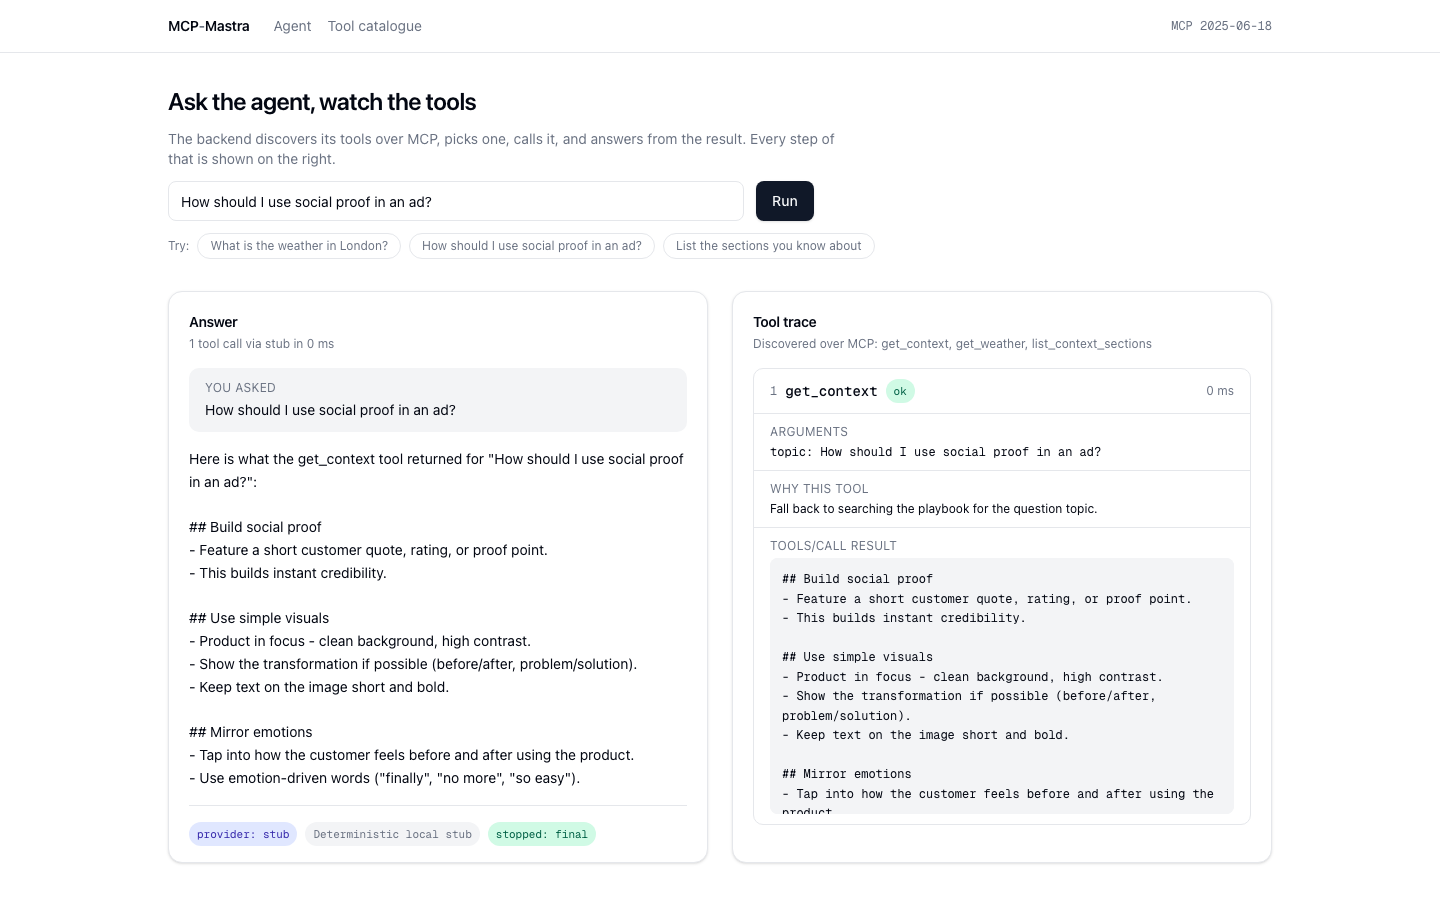
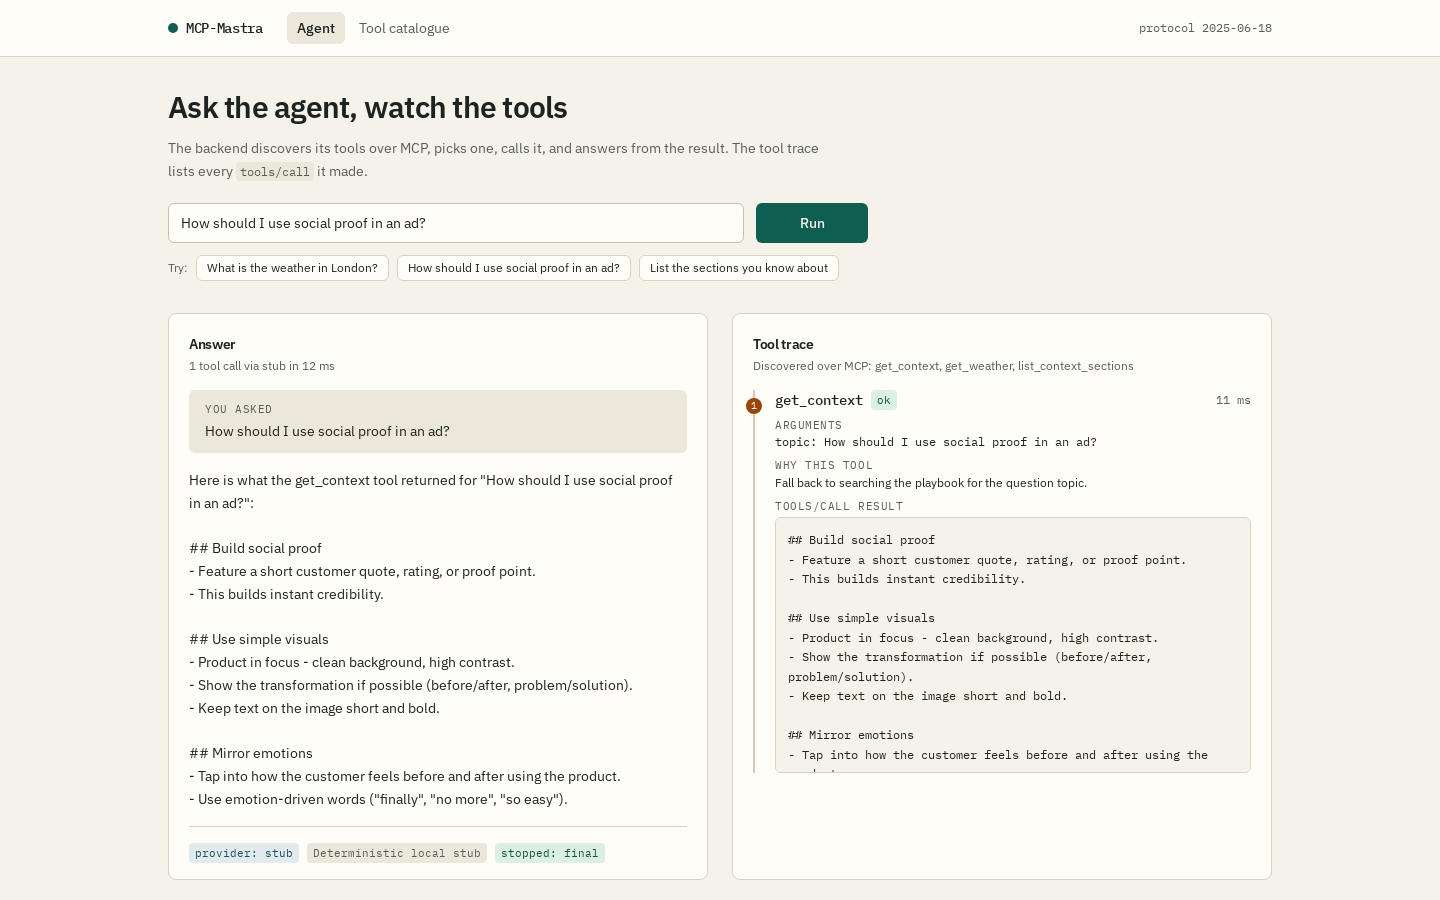
Rewrite the README around the Compose quick start and captured API calls
Adds an architecture diagram, request/response examples taken from the running stack, the stdio exchange, a configuration table and design notes. Screenshots are recaptured in the new palette, with phone views.

diff --git a/README.md b/README.md
@@ -1,27 +1,37 @@
 # MCP-Mastra
 
-A small Model Context Protocol server, an agent loop that calls it, and a Next.js console that shows the answer next to the list of tool calls the agent made.
+A small Model Context Protocol server, an agent loop that reaches its tools through an MCP client, and a Next.js console that shows the answer next to every tool call the agent made: which tool, with which arguments, why, and what came back.
 
-![Agent console with the tool trace](docs/screenshots/agent-console.png)
+![Agent console: the answer on the left, the numbered tool trace on the right](docs/screenshots/agent-console.png)
 
-By default the agent uses a local stub provider (a keyword rule table), so it runs without an API key or network access. Setting `MODEL_PROVIDER=openai` switches to a Mastra agent on an OpenAI model.
+The point is to make tool selection visible. When an agent picks the wrong tool or sends bad arguments, the trace shows it instead of leaving you to guess from the final answer.
+
+By default the agent runs on a deterministic local stub (a keyword rule table), so the whole stack works with no API key and no network. Setting `MODEL_PROVIDER=openai` swaps in a Mastra agent on an OpenAI model behind the same interface.
 
 ## What's in it
 
-- MCP server with `initialize`, `ping`, `tools/list` and `tools/call`, served over HTTP (`POST /mcp`) and stdio
-- Three tools: `get_context`, `list_context_sections` and `get_weather` (synthetic, deterministic readings, not a real forecast)
-- Agent loop that talks to the server through an MCP client, validates tool arguments with Zod and stops after `MAX_TOOL_STEPS`
-- Web console with the agent chat and a tool catalogue page for sending raw `tools/call` requests
+- An MCP server with `initialize`, `ping`, `tools/list` and `tools/call`, served over HTTP (`POST /mcp`) and over stdio.
+- Three tools: `get_context` and `list_context_sections` search a small ad-copy playbook; `get_weather` returns a synthetic reading derived from the city and date (deterministic, not a real forecast).
+- An agent loop that discovers tools over MCP, validates arguments with Zod, stops after `MAX_TOOL_STEPS`, and has deadlines on each tool call and on the whole run.
+- A web console with the agent chat and a tool catalogue page that sends raw `tools/call` requests to `/mcp`.
 
-Backend: Node, TypeScript, Express, Zod, `@mastra/core`. Frontend: Next.js 15, React 19, Tailwind.
+Backend: Node 22, TypeScript, Express 5, Zod, `@mastra/core`. Frontend: Next.js 15, React 19, Tailwind 4.
 
-## Running locally
+## Quick start
 
-Two terminals:
+With Docker:
+
+```bash
+docker compose up --build
+```
+
+Then open http://localhost:7272. The API is on http://localhost:7271. Every setting has a default; to change one, copy `.env.example` to `.env` next to `docker-compose.yml` and edit it.
+
+Without Docker (Node 22, see `.nvmrc`), in two terminals:
 
 ```bash
 cd Backend
-cp .env.example .env   # optional, all values have defaults
+cp .env.example .env   # optional
 npm install
 npm run dev            # API on http://localhost:7271
 ```
@@ -32,49 +42,171 @@ npm install
 npm run dev            # console on http://localhost:7272
 ```
 
-Quick checks:
+## How it fits together
 
-```bash
-curl -s http://localhost:7271/healthz
-curl -s -X POST http://localhost:7271/mcp \
-  -H 'Content-Type: application/json' \
-  -d '{"jsonrpc":"2.0","id":1,"method":"tools/list"}'
+```mermaid
+flowchart LR
+  UI["Next.js console<br/>:7272"] -- "POST /api/chat" --> API["Express API<br/>:7271"]
+  UI -- "POST /mcp (tools/call)" --> API
+  API --> Runner["AgentRunner<br/>step cap, run deadline"]
+  Runner -- "decide()" --> Provider{{"ModelProvider<br/>stub or Mastra/OpenAI"}}
+  Runner --> Client["McpClient"]
+  Client -- "in-memory transport" --> Server["McpServer"]
+  API -- "/mcp" --> Server
+  Stdio["stdio transport"] --> Server
+  Server --> Registry["ToolRegistry<br/>Zod validation, per-call deadline"]
+  Registry --> Tools["get_context<br/>list_context_sections<br/>get_weather"]
 ```
 
-To run the server as a stdio MCP subprocess instead: `cd Backend && npm run mcp:stdio`.
-
-### Using OpenAI
-
-In `Backend/.env`:
-
-```
-MODEL_PROVIDER=openai
-OPENAI_API_KEY=sk-...
-OPENAI_MODEL=gpt-4o-mini
-```
-
-If the key is missing the server logs a warning and falls back to the stub.
+The API holds one `McpServer` instance. The agent reaches it through the same `McpClient` an external consumer would use, over an in-memory transport, so the API has no back door into the tools. `/mcp` and the stdio entry point serve that same server to outside clients.
 
 ## API
 
 | Method | Path | Description |
 |---|---|---|
-| GET | `/healthz` | Provider, protocol version, tool names, config warnings |
+| GET | `/healthz` | Provider, protocol version, tool names, limits, config warnings |
 | GET | `/api/tools` | Tool catalogue fetched through the MCP client |
-| POST | `/api/chat` | `{ question }` in, answer plus `steps` out |
-| POST | `/mcp` | Raw JSON-RPC |
+| POST | `/api/chat` | `{ "question": "..." }` in, the answer and the step trace out |
+| POST | `/mcp` | Raw JSON-RPC 2.0 |
 
-## Tests
+These exchanges were captured from the Compose stack.
+
+Ask the agent:
 
 ```bash
-cd Backend && npm test
-cd Frontend && npm test
+curl -s -X POST http://localhost:7271/api/chat \
+  -H 'Content-Type: application/json' \
+  -d '{"question":"What is the weather in Lisbon?"}'
 ```
 
-Both packages also have `npm run lint` and `npm run typecheck`.
+```json
+{
+  "question": "What is the weather in Lisbon?",
+  "answer": "Here is what the get_weather tool returned for \"What is the weather in Lisbon?\":\n\nLisbon on 2026-11-08: heavy rain. Temperature -3 C, wind 25 kph, humidity 87%. (Synthetic reading - deterministic from city and date, not a live forecast.)",
+  "provider": "stub",
+  "providerLabel": "Deterministic local stub",
+  "toolsDiscovered": ["get_context", "get_weather", "list_context_sections"],
+  "steps": [
+    {
+      "index": 0,
+      "tool": "get_weather",
+      "arguments": { "city": "Lisbon" },
+      "rationale": "The question asks about weather and names a place.",
+      "ok": true,
+      "output": "Lisbon on 2026-11-08: heavy rain. Temperature -3 C, wind 25 kph, humidity 87%. (Synthetic reading - deterministic from city and date, not a live forecast.)",
+      "structured": {
+        "city": "Lisbon", "date": "2026-11-08", "condition": "heavy rain",
+        "temperatureC": -3, "windKph": 25, "humidityPct": 87, "synthetic": true
+      },
+      "durationMs": 1
+    }
+  ],
+  "stoppedBy": "final",
+  "durationMs": 3
+}
+```
 
-## Notes
+`stoppedBy` is `final` when the provider answered, `step_limit` when it hit `MAX_TOOL_STEPS`, `deadline` when the run went over `RUN_TIMEOUT_MS`, and `cancelled` when the client went away first.
 
-- The stub provider routes weather questions to `get_weather` and most other things to `get_context`. It does not chain tools.
-- The OpenAI path type-checks but hasn't been run against a real key.
-- The MCP implementation covers tools only (no resources, prompts or sampling), and `/mcp` has no authentication.
+Call a tool directly over JSON-RPC:
+
+```bash
+curl -s -X POST http://localhost:7271/mcp \
+  -H 'Content-Type: application/json' \
+  -d '{"jsonrpc":"2.0","id":2,"method":"tools/call","params":{"name":"get_weather","arguments":{"city":"Lisbon","date":"2026-03-14"}}}'
+```
+
+```json
+{
+  "jsonrpc": "2.0",
+  "id": 2,
+  "result": {
+    "content": [
+      {
+        "type": "text",
+        "text": "Lisbon on 2026-03-14: clear. Temperature -1 C, wind 13 kph, humidity 72%. (Synthetic reading - deterministic from city and date, not a live forecast.)"
+      }
+    ],
+    "structuredContent": {
+      "city": "Lisbon", "date": "2026-03-14", "condition": "clear",
+      "temperatureC": -1, "windKph": 13, "humidityPct": 72, "synthetic": true
+    }
+  }
+}
+```
+
+Bad arguments are a protocol error with the failing field named:
+
+```json
+{"jsonrpc":"2.0","id":3,"error":{"code":-32602,"message":"Invalid arguments for tool \"get_weather\"","data":[{"path":"city","message":"String must contain at least 1 character(s)"}]}}
+```
+
+A body that is not JSON gets HTTP 400 with a JSON-RPC parse error, `{"jsonrpc":"2.0","id":null,"error":{"code":-32700,"message":"Parse error"}}`, and a body over 64 kB gets 413.
+
+![Tool catalogue sending a raw tools/call](docs/screenshots/tool-call.png)
+
+## Running as a stdio MCP server
+
+Desktop MCP clients launch servers as a subprocess and speak newline-delimited JSON over stdin/stdout. The same tools are available that way:
+
+```bash
+cd Backend && npm run mcp:stdio      # from source, via ts-node
+node dist/stdio.js                   # after npm run build, or inside the backend image
+```
+
+```text
+> {"jsonrpc":"2.0","id":1,"method":"initialize","params":{"protocolVersion":"2025-06-18"}}
+< {"jsonrpc":"2.0","id":1,"result":{"protocolVersion":"2025-06-18","capabilities":{"tools":{"listChanged":false}},"serverInfo":{"name":"mcp-mastra-tools","version":"1.0.0"}}}
+```
+
+Diagnostics go to stderr, so nothing but protocol ever reaches stdout.
+
+## Configuration
+
+Backend variables (see `Backend/.env.example`; Compose passes the same names through from `.env`):
+
+| Variable | Default | Meaning |
+|---|---|---|
+| `PORT`, `HOST` | `7271`, `0.0.0.0` | Where the API listens |
+| `MODEL_PROVIDER` | `stub` | `stub` or `openai` |
+| `OPENAI_API_KEY`, `OPENAI_MODEL` | unset, `gpt-4o-mini` | Only read when the provider is `openai` |
+| `MAX_TOOL_STEPS` | `4` | Ceiling on tool calls per question |
+| `TOOL_TIMEOUT_MS` | `5000` | Deadline for one `tools/call`, on every transport |
+| `RUN_TIMEOUT_MS` | `60000` | Deadline for a whole `/api/chat` run, model calls included |
+| `CORS_ORIGINS` | `*` | Comma-separated allow-list |
+
+The frontend reads `NEXT_PUBLIC_API_BASE` (default `http://localhost:7271`). It is inlined at build time, so in Docker it is a build argument.
+
+With `MODEL_PROVIDER=openai` and no key, the server logs a warning, reports it on `/healthz`, and falls back to the stub rather than failing.
+
+## Design notes
+
+- **One seam for models.** `ModelProvider` has a single `decide()` method: given the transcript and the discovered tools, call a tool or answer. The loop owns everything else (the step cap, the MCP calls, the trace, the deadlines), so the stub and the OpenAI provider behave identically from the console's point of view. The OpenAI provider asks the model for one JSON decision at a time instead of handing tool execution to the framework, which keeps the trace and the step cap in this project's hands.
+- **Protocol errors and tool errors stay apart.** An unknown tool or invalid arguments raises a JSON-RPC error. A tool that throws, or runs past `TOOL_TIMEOUT_MS`, returns content with `isError: true`, which the agent reads as a result and can recover from.
+- **Deadlines and cancellation.** Every tool handler gets an `AbortSignal` that fires at its deadline. The run has its own deadline, and `/api/chat` aborts the run when the client disconnects, so an abandoned request does not keep paying for model calls. The signal is passed to the model call, and the loop also stops waiting on its own.
+- **The stub is the default, not a fallback.** It routes weather questions (matched as whole words) to `get_weather`, catalogue questions to `list_context_sections`, and everything else to `get_context`. That is enough to exercise discovery, validation, the trace and the UI with stable test assertions.
+- **The weather tool is synthetic on purpose.** A reading hashed from city and date is varied and reproducible, so a test can tell whether the arguments arrived.
+- **Lazy model imports.** `@mastra/core` and `@ai-sdk/openai` are imported only when the OpenAI provider makes its first call, so the default path never loads them.
+
+## Tests and checks
+
+```bash
+cd Backend && npm test && npm run lint && npm run typecheck && npm run format:check
+cd Frontend && npm test && npm run lint && npm run typecheck && npm run build
+```
+
+The backend has 110 Vitest tests covering the protocol, server, client, registry deadlines, tools, the stub, the loop (step cap, run deadline, cancellation) and the HTTP API, including a real client disconnect. The frontend has 14 tests for the API client and formatting helpers.
+
+![Agent console on a phone](docs/screenshots/agent-console-mobile.png)
+
+## Limitations
+
+- The MCP surface covers tools only: no resources, prompts, sampling, or `notifications/cancelled` from the client side.
+- `/mcp` has no authentication. Do not expose it beyond a trusted network.
+- The OpenAI path type-checks and its JSON parsing is tested, but it has not been run against a real key. `@mastra/core` stays on 0.18 and `@ai-sdk/openai` on 1.x; moving to Mastra 1.x and AI SDK v5 is a migration that needs a key to verify.
+- The stub answers with one tool call per question and does not chain tools.
+- The tool catalogue page only renders inputs for string arguments; `get_context`'s numeric `limit` can be sent through `/mcp` directly.
+
+## License
+
+MIT, see [LICENSE](LICENSE).
